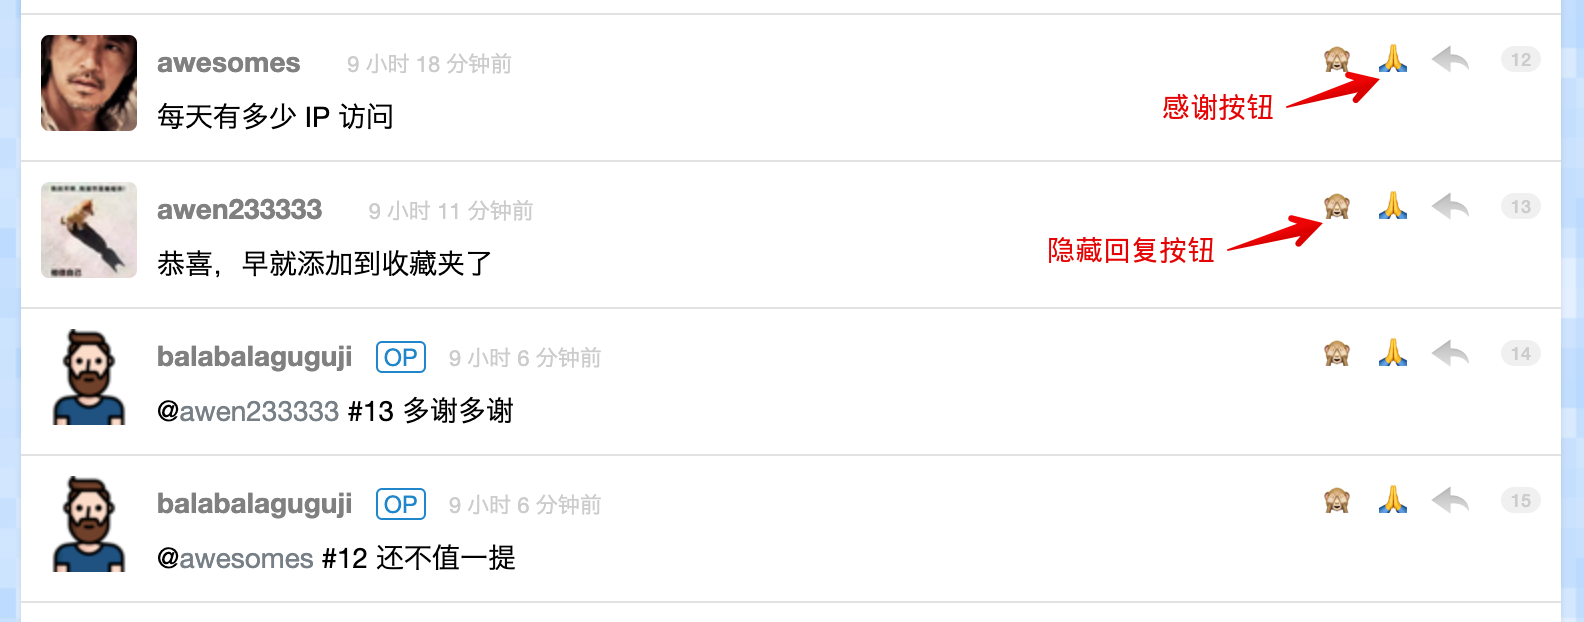
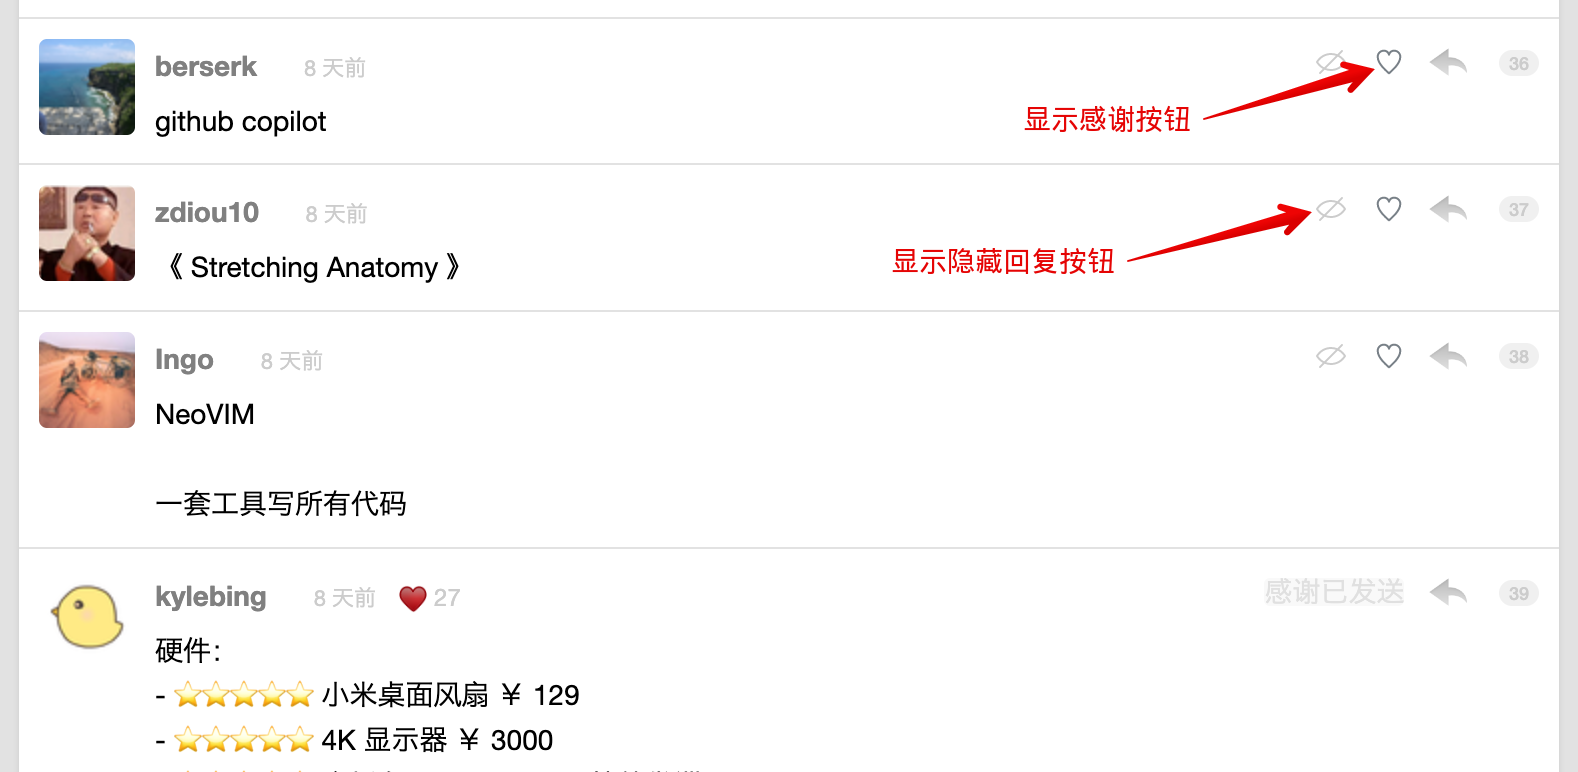
0.0.3

diff --git a/build/userscript-prod/v2ex.rep.user.js b/build/userscript-prod/v2ex.rep.user.js
@@ -4,9 +4,9 @@
 // @namespace            https://github.com/v2hot/v2ex.rep
 // @homepageURL          https://github.com/v2hot/v2ex.rep#readme
 // @supportURL           https://github.com/v2hot/v2ex.rep/issues
-// @version              0.0.2
-// @description          专注提升 V2EX 主题回复浏览体验的浏览器扩展/用户脚本。主要功能有 ✅ 修复有被 block 的用户时错位的楼层号；✅ 回复时自动带上楼层号；✅ 一直显示感谢按钮 🙏；✅ 一直显示隐藏回复按钮 🙈；✅ 快速发送感谢/快速隐藏回复（no confirm）等。
-// @description:zh-CN    专注提升 V2EX 主题回复浏览体验的浏览器扩展/用户脚本。主要功能有 ✅ 修复有被 block 的用户时错位的楼层号；✅ 回复时自动带上楼层号；✅ 一直显示感谢按钮 🙏；✅ 一直显示隐藏回复按钮 🙈；✅ 快速发送感谢/快速隐藏回复（no confirm）等。
+// @version              0.0.3
+// @description          专注提升 V2EX 主题回复浏览体验的浏览器扩展/用户脚本。主要功能有 ✅ 修复有被 block 的用户时错位的楼层号；✅ 回复时自动带上楼层号；✅ 显示热门回复；✅ 一直显示感谢按钮 🙏；✅ 一直显示隐藏回复按钮 🙈；✅ 快速发送感谢/快速隐藏回复（no confirm）等。
+// @description:zh-CN    专注提升 V2EX 主题回复浏览体验的浏览器扩展/用户脚本。主要功能有 ✅ 修复有被 block 的用户时错位的楼层号；✅ 回复时自动带上楼层号；✅ 显示热门回复；✅ 一直显示感谢按钮 🙏；✅ 一直显示隐藏回复按钮 🙈；✅ 快速发送感谢/快速隐藏回复（no confirm）等。
 // @icon                 https://www.v2ex.com/favicon.ico
 // @author               Pipecraft
 // @license              MIT
@@ -175,7 +175,7 @@
     GM.registerMenuCommand(name, callback, accessKey)
   }
   var content_default =
-    "a.icon_button{opacity:1 !important;visibility:visible;margin-right:14px}a.icon_button:last-child{margin-right:0}a.icon_button svg{vertical-align:text-top}body .v2p-controls{opacity:1}body .v2p-controls>a.icon_button{margin-right:0}body .v2p-controls div a{margin-right:15px}body .v2p-controls div a:last-child{margin-right:0}body .v2p-controls a[onclick^=replyOne]{opacity:1 !important}"
+    "a.icon_button{opacity:1 !important;visibility:visible;margin-right:14px}a.icon_button:last-child{margin-right:0}a.icon_button svg{vertical-align:text-top}body .v2p-controls{opacity:1}body .v2p-controls>a.icon_button{margin-right:0}body .v2p-controls div a{margin-right:15px}body .v2p-controls div a:last-child{margin-right:0}body .v2p-controls a[onclick^=replyOne]{opacity:1 !important}.sticky_rightbar #Rightbar{position:sticky;top:0;max-height:100vh;overflow-y:hidden;overflow-x:hidden;--sb-track-color: #232e3300;--sb-thumb-color: #33334480;--sb-size: 2px;scrollbar-color:var(--sb-thumb-color) var(--sb-track-color)}.sticky_rightbar #Rightbar:hover{overflow-y:overlay}.sticky_rightbar #Rightbar::-webkit-scrollbar{width:var(--sb-size)}.sticky_rightbar #Rightbar::-webkit-scrollbar-track{background:var(--sb-track-color)}.sticky_rightbar #Rightbar::-webkit-scrollbar-thumb{background:var(--sb-thumb-color)}.sticky_rightbar #Rightbar .v2p-tool-box{position:unset}"
   var listeners = {}
   var getValue = async (key) => {
     const value = await GM.getValue(key)
@@ -450,6 +450,14 @@
       }
     }
   }
+  var getFloorNumberElement = (replyElement) => $("span.no", replyElement)
+  var getFloorNumber = (replyElement) => {
+    const numberElement = getFloorNumberElement(replyElement)
+    if (numberElement) {
+      return Number.parseInt(numberElement.textContent || "", 10) || void 0
+    }
+    return void 0
+  }
   var getTopicReplies = async (topicId) => {
     const url = `${location.protocol}//${location.host}/api/replies/show.json?topic_id=${topicId}`
     const response = await fetch(url)
@@ -483,7 +491,7 @@
       }
       element.found = true
       if (elementOffset > 0) {
-        const numberElement = $("span.no", element)
+        const numberElement = getFloorNumberElement(element)
         if (numberElement) {
           numberElement.textContent = String(index + offset + elementOffset + 1)
         }
@@ -491,11 +499,15 @@
       index++
     }
     if (elementOffset > 0) {
+      const v2exPolishModel = $(".v2p-model-mask")
       for (const element of replyElements) {
         if (element.found) {
           continue
         }
-        const numberElement = $("span.no", element)
+        if (v2exPolishModel && v2exPolishModel.contains(element)) {
+          continue
+        }
+        const numberElement = getFloorNumberElement(element)
         if (numberElement) {
           const oldNumber = Number.parseInt(numberElement.textContent || "", 10)
           if (oldNumber) {
@@ -557,11 +569,10 @@
   }
   var replyWithFloorNumber = (replyElement) => {
     const replyButton = $('a[onclick^="replyOne"]', replyElement)
-    const numberElement = $("span.no", replyElement)
-    if (replyButton && numberElement) {
+    if (replyButton) {
       setAttribute(replyButton, "href", "javascript:;")
       const onclick = getAttribute(replyButton, "onclick") || ""
-      const number = numberElement.textContent
+      const number = getFloorNumber(replyElement)
       if (number) {
         setAttribute(
           replyButton,
@@ -572,6 +583,101 @@
           )
         )
         replyButton.outerHTML = replyButton.outerHTML
+      }
+    }
+  }
+  var showTopReplies = (toggle) => {
+    var _a, _b
+    const element = $("#top_replies")
+    if (element) {
+      const sep20 = element.previousElementSibling
+      if (sep20 == null ? void 0 : sep20.classList.contains("sep20")) {
+        sep20.remove()
+      }
+      element.remove()
+    }
+    if (!toggle) {
+      ;(_a = $("#Wrapper")) == null
+        ? void 0
+        : _a.classList.remove("sticky_rightbar")
+      return
+    }
+    ;(_b = $("#Wrapper")) == null ? void 0 : _b.classList.add("sticky_rightbar")
+    const v2exPolishModel = $(".v2p-model-mask")
+    const replyElements = $$('.box .cell[id^="r_"]')
+      .filter((reply) => {
+        var _a2
+        if (v2exPolishModel && v2exPolishModel.contains(reply)) {
+          return false
+        }
+        const heartElement = $('img[alt="\u2764\uFE0F"],.v2p-icon-heart', reply)
+        if (heartElement) {
+          const childReplies = $$('.cell[id^="r_"]', reply)
+          for (const child of childReplies) {
+            if (child.contains(heartElement)) {
+              return false
+            }
+          }
+          const thanked = Number.parseInt(
+            ((_a2 = heartElement.nextSibling) == null
+              ? void 0
+              : _a2.textContent) || "0",
+            10
+          )
+          if (thanked > 0) {
+            reply.thanked = thanked
+            return true
+          }
+        }
+        return false
+      })
+      .sort((a, b) => {
+        if (b.thanked === a.thanked) {
+          const floorNumberA = getFloorNumber(a) || 0
+          const floorNumberB = getFloorNumber(b) || 0
+          return floorNumberA - floorNumberB
+        }
+        return b.thanked - a.thanked
+      })
+    if (replyElements.length > 0) {
+      const box = createElement("div", {
+        class: "box",
+        id: "top_replies",
+        innerHTML: `<div class="cell"><div class="fr"></div><span class="fade">\u5F53\u524D\u9875\u70ED\u95E8\u56DE\u590D</span></div>`,
+      })
+      for (const element2 of replyElements) {
+        const cloned = element2.cloneNode(true)
+        cloned.id = "top_" + element2.id
+        const floorNumber = $(".no", cloned)
+        const toolbox = $(".fr", cloned)
+        if (toolbox && floorNumber) {
+          const floorNumber2 = createElement("a", {
+            class: "no",
+            textContent: floorNumber.textContent,
+          })
+          addEventListener(floorNumber2, "click", () => {
+            element2.scrollIntoView({ block: "start" })
+          })
+          toolbox.innerHTML = ""
+          toolbox.append(floorNumber2)
+        }
+        const ago = $(".ago", cloned)
+        if (ago) {
+          ago.before(createElement("br"))
+        }
+        const cells = $$(".cell", cloned)
+        for (const cell of cells) {
+          cell.remove()
+        }
+        box.append(cloned)
+      }
+      const appendPosition = $("#Rightbar .box")
+      const sep20 = createElement("div", {
+        class: "sep20",
+      })
+      if (appendPosition) {
+        appendPosition.after(box)
+        appendPosition.after(sep20)
       }
     }
   }
@@ -586,6 +692,10 @@
     },
     replyWithFloorNumber: {
       title: "\u56DE\u590D\u65F6\u5E26\u4E0A\u697C\u5C42\u53F7",
+      defaultValue: true,
+    },
+    showTopReplies: {
+      title: "\u663E\u793A\u70ED\u95E8\u56DE\u590D",
       defaultValue: true,
     },
     quickSendThank: {
@@ -630,6 +740,7 @@
           quickHideReply(replyElement)
         }
       }
+      showTopReplies(getSettingsValue("showTopReplies"))
       addEventListener(window, "floorNumberUpdated", () => {
         fixedReplyFloorNumbers = true
         if (getSettingsValue("replyWithFloorNumber")) {
@@ -638,6 +749,7 @@
             replyWithFloorNumber(replyElement)
           }
         }
+        showTopReplies(getSettingsValue("showTopReplies"))
       })
       if (!getSettingsValue("fixReplyFloorNumbers") || fixedReplyFloorNumbers) {
         return

diff --git a/userscript-desc/readme.md b/userscript-desc/readme.md
@@ -6,9 +6,12 @@
 
 - ✅ 修复有被 block 的用户时错位的楼层号
 - ✅ 回复时自动带上楼层号
+- ✅ 显示热门回复
 - ✅ 一直显示感谢按钮 🙏
 - ✅ 一直显示隐藏回复按钮 🙈
 - ✅ 快速发送感谢/快速隐藏回复（no confirm）
+
+> ⚠ 兼容 V2EX Plus, V2EX Polish 等浏览器扩展/脚本。
 
 ## Screenshots
 
@@ -20,11 +23,13 @@
 
 ![screenshots](https://raw.githubusercontent.com/v2hot/v2ex.rep/main/assets/v2ex.rep-screenshots-02.png)
 
-![screenshots](https://raw.githubusercontent.com/v2hot/v2ex.rep/main/assets/v2ex.rep-screenshots-05.png)
-
 - 回复时自动带上楼层号
 
 ![screenshots](https://raw.githubusercontent.com/v2hot/v2ex.rep/main/assets/v2ex.rep-screenshots-03.png)
+
+- 显示热门回复，点击楼层数，可直达该回复
+
+![screenshots](https://raw.githubusercontent.com/v2hot/v2ex.rep/main/assets/v2ex.rep-screenshots-05.png)
 
 - 一直显示感谢按钮/回复按钮
 
@@ -52,6 +57,8 @@ Compatible with the following userscript managers
 
 ## Release Notes
 
+- 0.0.3 2023.05.25
+  - 显示热门回复
 - 0.0.2 2023.05.23
   - 修改 v2ex polish 扩展/脚本兼容性问题
   - Change emoji to icon

diff --git a/userscript-desc/zh-CN.md b/userscript-desc/zh-CN.md
@@ -6,9 +6,12 @@
 
 - ✅ 修复有被 block 的用户时错位的楼层号
 - ✅ 回复时自动带上楼层号
+- ✅ 显示热门回复
 - ✅ 一直显示感谢按钮 🙏
 - ✅ 一直显示隐藏回复按钮 🙈
 - ✅ 快速发送感谢/快速隐藏回复（no confirm）
+
+> ⚠ 兼容 V2EX Plus, V2EX Polish 等浏览器扩展/脚本。
 
 ## 页面截屏
 
@@ -20,11 +23,13 @@
 
 ![screenshots](https://raw.githubusercontent.com/v2hot/v2ex.rep/main/assets/v2ex.rep-screenshots-02.png)
 
-![screenshots](https://raw.githubusercontent.com/v2hot/v2ex.rep/main/assets/v2ex.rep-screenshots-05.png)
-
 - 回复时自动带上楼层号
 
 ![screenshots](https://raw.githubusercontent.com/v2hot/v2ex.rep/main/assets/v2ex.rep-screenshots-03.png)
+
+- 显示热门回复，点击楼层数，可直达该回复
+
+![screenshots](https://raw.githubusercontent.com/v2hot/v2ex.rep/main/assets/v2ex.rep-screenshots-05.png)
 
 - 一直显示感谢按钮/回复按钮
 
@@ -52,6 +57,8 @@
 
 ## Release Notes
 
+- 0.0.3 2023.05.25
+  - 显示热门回复
 - 0.0.2 2023.05.23
   - 修改 v2ex polish 扩展/脚本兼容性问题
   - Change emoji to icon

diff --git a/README.md b/README.md
@@ -6,9 +6,12 @@
 
 - ✅ 修复有被 block 的用户时错位的楼层号
 - ✅ 回复时自动带上楼层号
+- ✅ 显示热门回复
 - ✅ 一直显示感谢按钮 🙏
 - ✅ 一直显示隐藏回复按钮 🙈
 - ✅ 快速发送感谢/快速隐藏回复（no confirm）
+
+> ⚠ 兼容 V2EX Plus, V2EX Polish 等浏览器扩展/脚本。
 
 ## 页面截屏
 
@@ -20,11 +23,13 @@
 
 ![screenshots](assets/v2ex.rep-screenshots-02.png)
 
-![screenshots](assets/v2ex.rep-screenshots-05.png)
-
 - 回复时自动带上楼层号
 
 ![screenshots](assets/v2ex.rep-screenshots-03.png)
+
+- 显示热门回复，点击楼层数，可直达该回复
+
+![screenshots](assets/v2ex.rep-screenshots-05.png)
 
 - 一直显示感谢按钮/回复按钮
 
